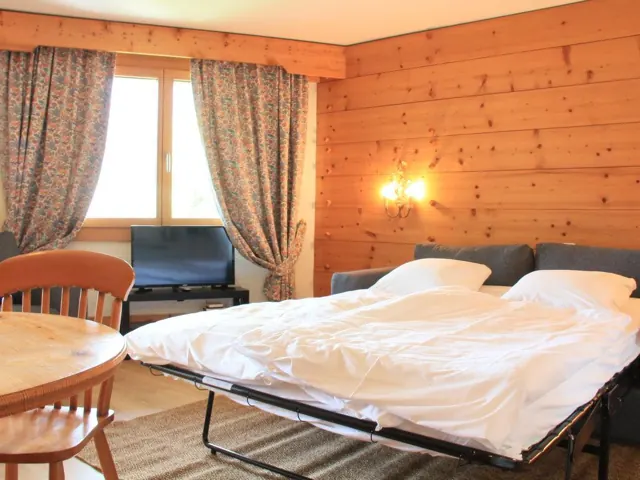
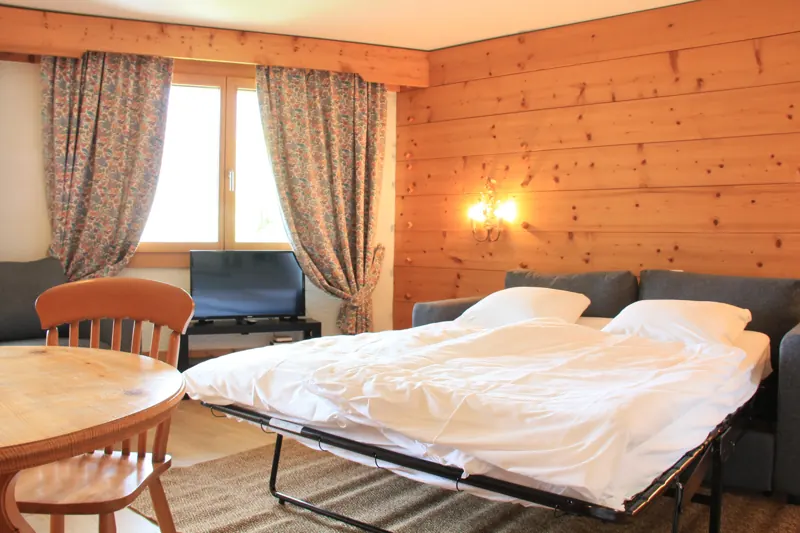
Full-resolution Interhome originals (1600px) for sharper photos

diff --git a/index.html b/index.html
@@ -14,7 +14,7 @@
 <script type="application/ld+json">
 {"@context":"https://schema.org","@type":"VacationRental","name":"Le Bristol A46 · Villars-sur-Ollon",
  "description":"One-bedroom apartment with two balconies, two bathrooms and a heated indoor pool in the building, 500 m from the centre of Villars-sur-Ollon.",
- "image":["img/balcony-fondue-view-1600.webp","img/living-room-1600.webp","img/ih-bedroom-1024.webp","img/ih-pool-2-1024.webp"],
+ "image":["img/balcony-fondue-view-1600.webp","img/living-room-1600.webp","img/ih-bedroom-1600.webp","img/ih-pool-2-1600.webp"],
  "address":{"@type":"PostalAddress","streetAddress":"Avenue Centrale 164","addressLocality":"Villars-sur-Ollon","postalCode":"1884","addressCountry":"CH"},
  "containsPlace":{"@type":"Accommodation","additionalType":"EntirePlace","occupancy":{"@type":"QuantitativeValue","value":4},"numberOfBedrooms":1,"numberOfBathroomsTotal":2,"floorSize":{"@type":"QuantitativeValue","value":55,"unitCode":"MTK"},
    "amenityFeature":[{"@type":"LocationFeatureSpecification","name":"Indoor pool","value":true},{"@type":"LocationFeatureSpecification","name":"Wi-Fi","value":true},{"@type":"LocationFeatureSpecification","name":"Balcony","value":true}]}}
@@ -281,7 +281,7 @@
 
 <header class="hero" id="top">
   <div class="bg s"><img src="img/balcony-fondue-view-1600.webp" srcset="img/balcony-fondue-view-800.webp 800w, img/balcony-fondue-view-1600.webp 1600w" sizes="100vw" alt="Fondue on the balcony with a panoramic view of the Alps above Villars" fetchpriority="high"></div>
-  <div class="bg w"><img src="img/ih-view-winter-1024.webp" alt="Snow-covered balcony looking over Villars and the mountains in winter" loading="lazy"></div>
+  <div class="bg w"><img src="img/ih-view-winter-1600.webp" alt="Snow-covered balcony looking over Villars and the mountains in winter" loading="lazy"></div>
   <div class="wrap">
     <p class="kicker"><span data-show="summer">Villars-sur-Ollon · Summer in the Alps</span><span data-show="winter">Villars-sur-Ollon · Ski bus at the door</span></p>
     <h1>Your balcony <em>above</em> the Alps</h1>
@@ -337,8 +337,8 @@
   </section>
 
   <div class="band" aria-hidden="false">
-    <img id="parallax" data-show="summer" src="img/ih-village-summer-1024.webp" alt="Villars village and the Alps in summer" loading="lazy">
-    <img class="parallax-w" data-show="winter" src="img/ih-view-winter-2-1024.webp" alt="Villars under fresh snow" loading="lazy">
+    <img id="parallax" data-show="summer" src="img/ih-village-summer-1600.webp" alt="Villars village and the Alps in summer" loading="lazy">
+    <img class="parallax-w" data-show="winter" src="img/ih-view-winter-2-1600.webp" alt="Villars under fresh snow" loading="lazy">
     <div class="quote"><blockquote class="reveal">"Spacious apartment, magnificent view over Villars and the mountains."<cite style="display:block;font:500 .8rem/1.4 var(--sans);font-style:normal;letter-spacing:.18em;text-transform:uppercase;margin-top:20px;opacity:.8">Guest review, translated from French</cite></blockquote></div>
   </div>
 
@@ -349,17 +349,17 @@
         <h2>Warm, light, <em>unmistakably alpine</em></h2>
       </div>
       <div class="gallery reveal" id="gallery">
-        <button class="i1" data-full="img/ih-living-ih-1024.webp" aria-label="Open photo: living room"><img src="img/ih-living-ih-1024.webp" alt="Bright pine-panelled living room with sofa, dining table and kitchenette" loading="lazy"></button>
+        <button class="i1" data-full="img/ih-living-ih-1600.webp" aria-label="Open photo: living room"><img src="img/ih-living-ih-1600.webp" alt="Bright pine-panelled living room with sofa, dining table and kitchenette" loading="lazy"></button>
         <button class="i2" data-full="img/living-room-sofas-1600.webp" aria-label="Open photo: two sofas"><img src="img/living-room-sofas-1600.webp" alt="Living room with two sofas facing the window" loading="lazy"></button>
-        <button class="i3" data-full="img/ih-terrace-trees-1024.webp" aria-label="Open photo: balcony"><img src="img/ih-terrace-trees-1024.webp" alt="Balcony looking over larch woods and mountains" loading="lazy"></button>
+        <button class="i3" data-full="img/ih-terrace-trees-1600.webp" aria-label="Open photo: balcony"><img src="img/ih-terrace-trees-1600.webp" alt="Balcony looking over larch woods and mountains" loading="lazy"></button>
         <button class="i4" data-full="img/living-room-evening-1600.webp" aria-label="Open photo: evening light"><img src="img/living-room-evening-1600.webp" alt="Living room in warm evening light" loading="lazy"></button>
         <button class="i5" data-full="img/fondue-closeup-1600.webp" aria-label="Open photo: fondue"><img src="img/fondue-closeup-1600.webp" alt="Fondue on the balcony" loading="lazy"></button>
         <button class="i6" data-full="img/kitchenette-1600.webp" aria-label="Open photo: kitchenette"><img src="img/kitchenette-1600.webp" alt="White kitchenette with two hot plates and fridge" loading="lazy"></button>
-        <button class="i4" data-full="img/ih-bedroom-1024.webp" aria-label="Open photo: bedroom"><img src="img/ih-bedroom-1024.webp" alt="Twin bedroom with pine furniture" loading="lazy"></button>
-        <button class="i5" data-full="img/ih-bathroom-1024.webp" aria-label="Open photo: bathroom"><img src="img/ih-bathroom-1024.webp" alt="Bathroom with bath and marble tiles" loading="lazy"></button>
-        <button class="i6" data-full="img/ih-pool-2-1024.webp" aria-label="Open photo: indoor pool"><img src="img/ih-pool-2-1024.webp" alt="Heated indoor pool in the building" loading="lazy"></button>
-        <button class="i7" data-full="img/ih-terrace-summer-1024.webp" aria-label="Open photo: balcony table"><img src="img/ih-terrace-summer-1024.webp" alt="Balcony table and chairs with mountain view" loading="lazy"></button>
-        <button class="i7" data-full="img/ih-building-snow-1024.webp" aria-label="Open photo: building in winter"><img src="img/ih-building-snow-1024.webp" alt="Le Bristol with wooden balconies in the snow" loading="lazy"></button>
+        <button class="i4" data-full="img/ih-bedroom-1600.webp" aria-label="Open photo: bedroom"><img src="img/ih-bedroom-1600.webp" alt="Twin bedroom with pine furniture" loading="lazy"></button>
+        <button class="i5" data-full="img/ih-bathroom-1600.webp" aria-label="Open photo: bathroom"><img src="img/ih-bathroom-1600.webp" alt="Bathroom with bath and marble tiles" loading="lazy"></button>
+        <button class="i6" data-full="img/ih-pool-2-1600.webp" aria-label="Open photo: indoor pool"><img src="img/ih-pool-2-1600.webp" alt="Heated indoor pool in the building" loading="lazy"></button>
+        <button class="i7" data-full="img/ih-terrace-summer-1600.webp" aria-label="Open photo: balcony table"><img src="img/ih-terrace-summer-1600.webp" alt="Balcony table and chairs with mountain view" loading="lazy"></button>
+        <button class="i7" data-full="img/ih-building-snow-1600.webp" aria-label="Open photo: building in winter"><img src="img/ih-building-snow-1600.webp" alt="Le Bristol with wooden balconies in the snow" loading="lazy"></button>
       </div>
     </div>
   </section>
@@ -376,11 +376,11 @@
       </div>
 
       <div class="acts" data-show="winter">
-        <article class="act reveal"><img src="img/ih-bretaye-pistes-640.webp" srcset="img/ih-bretaye-pistes-640.webp 640w, img/ih-bretaye-pistes-1024.webp 1024w" sizes="(max-width:560px) 92vw, (max-width:900px) 46vw, 380px" alt="Sunny pistes in the Villars–Gryon ski area" loading="lazy"><div><span class="tag">Ski</span><h3>Over 100 km of pistes</h3><p>Villars–Gryon–Les Diablerets links wide blue and red runs with views to Mont Blanc. The free ski bus stops 20 m from the building.</p></div></article>
+        <article class="act reveal"><img src="img/ih-bretaye-pistes-640.webp" srcset="img/ih-bretaye-pistes-640.webp 640w, img/ih-bretaye-pistes-1600.webp 1600w" sizes="(max-width:560px) 92vw, (max-width:900px) 46vw, 380px" alt="Sunny pistes in the Villars–Gryon ski area" loading="lazy"><div><span class="tag">Ski</span><h3>Over 100 km of pistes</h3><p>Villars–Gryon–Les Diablerets links wide blue and red runs with views to Mont Blanc. The free ski bus stops 20 m from the building.</p></div></article>
         <article class="act reveal"><img src="img/cc-bvb-winter-640.webp" srcset="img/cc-bvb-winter-640.webp 640w, img/cc-bvb-winter-1200.webp 1200w" sizes="(max-width:560px) 92vw, (max-width:900px) 46vw, 380px" alt="The red mountain train at Col de Bretaye in ski season" loading="lazy"><div><span class="tag">Getting up</span><h3>The train to Bretaye</h3><p>The little rack railway climbs from Villars station, 500 m from the flat, straight up to Col de Bretaye at the heart of the ski area. Free with a valid ski pass.</p></div></article>
-        <article class="act reveal"><img src="img/ih-roc-dorsay-640.webp" srcset="img/ih-roc-dorsay-640.webp 640w, img/ih-roc-dorsay-1024.webp 1024w" sizes="(max-width:560px) 92vw, (max-width:900px) 46vw, 380px" alt="Roc d'Orsay gondola station in Villars" loading="lazy"><div><span class="tag">Getting up</span><h3>Roc d'Orsay gondola</h3><p>Or take the gondola from the village up to Roc d'Orsay. Lockers, ski hire and ski schools for children from age 3 are all close by.</p></div></article>
-        <article class="act reveal"><img src="img/ih-snow-trail-640.webp" srcset="img/ih-snow-trail-640.webp 640w, img/ih-snow-trail-1024.webp 1024w" sizes="(max-width:560px) 92vw, (max-width:900px) 46vw, 380px" alt="Footprints across fresh snow between fir trees" loading="lazy"><div><span class="tag">Not skiing?</span><h3>Winter walks &amp; snowshoes</h3><p>Groomed winter footpaths and snowshoe trails start from the village and from Bretaye. Sledging and an ice rink too.</p></div></article>
-        <article class="act reveal"><img src="img/ih-pool-2-640.webp" srcset="img/ih-pool-2-640.webp 640w, img/ih-pool-2-1024.webp 1024w" sizes="(max-width:560px) 92vw, (max-width:900px) 46vw, 380px" alt="Heated indoor pool in Le Bristol" loading="lazy"><div><span class="tag">Après-ski</span><h3>Pool downstairs</h3><p>Come back, drop the skis in the ski room and swim in the heated indoor pool in the building. Then fondue on the balcony.</p></div></article>
+        <article class="act reveal"><img src="img/ih-roc-dorsay-640.webp" srcset="img/ih-roc-dorsay-640.webp 640w, img/ih-roc-dorsay-1600.webp 1600w" sizes="(max-width:560px) 92vw, (max-width:900px) 46vw, 380px" alt="Roc d'Orsay gondola station in Villars" loading="lazy"><div><span class="tag">Getting up</span><h3>Roc d'Orsay gondola</h3><p>Or take the gondola from the village up to Roc d'Orsay. Lockers, ski hire and ski schools for children from age 3 are all close by.</p></div></article>
+        <article class="act reveal"><img src="img/ih-snow-trail-640.webp" srcset="img/ih-snow-trail-640.webp 640w, img/ih-snow-trail-1600.webp 1600w" sizes="(max-width:560px) 92vw, (max-width:900px) 46vw, 380px" alt="Footprints across fresh snow between fir trees" loading="lazy"><div><span class="tag">Not skiing?</span><h3>Winter walks &amp; snowshoes</h3><p>Groomed winter footpaths and snowshoe trails start from the village and from Bretaye. Sledging and an ice rink too.</p></div></article>
+        <article class="act reveal"><img src="img/ih-pool-2-640.webp" srcset="img/ih-pool-2-640.webp 640w, img/ih-pool-2-1600.webp 1600w" sizes="(max-width:560px) 92vw, (max-width:900px) 46vw, 380px" alt="Heated indoor pool in Le Bristol" loading="lazy"><div><span class="tag">Après-ski</span><h3>Pool downstairs</h3><p>Come back, drop the skis in the ski room and swim in the heated indoor pool in the building. Then fondue on the balcony.</p></div></article>
         <article class="act reveal"><img src="img/cc-glacier-summer-640.webp" srcset="img/cc-glacier-summer-640.webp 640w, img/cc-glacier-summer-1200.webp 1200w" sizes="(max-width:560px) 92vw, (max-width:900px) 46vw, 380px" alt="Glacier 3000 cable car and the snowy peaks of the Diablerets" loading="lazy"><div><span class="tag">Day trip</span><h3>Glacier 3000</h3><p>About 40 minutes' drive via Les Diablerets: a cable car to the glacier, the Peak Walk suspension bridge and skiing at 3,000 m.</p></div></article>
       </div>
 
@@ -388,7 +388,7 @@
         <article class="act reveal"><img src="img/cc-chavonnes-640.webp" srcset="img/cc-chavonnes-640.webp 640w, img/cc-chavonnes-1200.webp 1200w" sizes="(max-width:560px) 92vw, (max-width:900px) 46vw, 380px" alt="Lac des Chavonnes above Bretaye in summer" loading="lazy"><div><span class="tag">Walk</span><h3>The Bretaye lakes</h3><p>Ride the little train from Villars station up to Col de Bretaye, then walk round Lac de Bretaye and Lac Noir, or 30–40 minutes on to Lac des Chavonnes and its lakeside terrace restaurant.</p></div></article>
         <article class="act reveal"><img src="img/cc-bikers-640.webp" srcset="img/cc-bikers-640.webp 640w, img/cc-bikers-1200.webp 1200w" sizes="(max-width:560px) 92vw, (max-width:900px) 46vw, 380px" alt="Trail through alpine pasture near Col de Bretaye" loading="lazy"><div><span class="tag">Walk</span><h3>Trails for every level</h3><p>Family strolls in the larch woods, the Edelweiss Trail, or up Le Chamossaire for the panorama. Bikes go on the Bretaye train, and can be hired in the village.</p></div></article>
         <article class="act reveal"><img src="img/cc-chamossaire-640.webp" srcset="img/cc-chamossaire-640.webp 640w, img/cc-chamossaire-1200.webp 1200w" sizes="(max-width:560px) 92vw, (max-width:900px) 46vw, 380px" alt="Alpine pastures below Le Chamossaire" loading="lazy"><div><span class="tag">Play</span><h3>Golf at altitude</h3><p>Villars golf course, an 18-hole mountain course, is 7 km away. The village sports centre has tennis, a pool and an ice rink.</p></div></article>
-        <article class="act reveal"><img src="img/ih-pool-2-640.webp" srcset="img/ih-pool-2-640.webp 640w, img/ih-pool-2-1024.webp 1024w" sizes="(max-width:560px) 92vw, (max-width:900px) 46vw, 380px" alt="Heated indoor pool in Le Bristol" loading="lazy"><div><span class="tag">Relax</span><h3>Pools &amp; thermal baths</h3><p>The heated pool is downstairs. For a treat, the Lavey thermal baths in the Rhône valley are about 25 minutes' drive, and the village sports centre has a spa.</p></div></article>
+        <article class="act reveal"><img src="img/ih-pool-2-640.webp" srcset="img/ih-pool-2-640.webp 640w, img/ih-pool-2-1600.webp 1600w" sizes="(max-width:560px) 92vw, (max-width:900px) 46vw, 380px" alt="Heated indoor pool in Le Bristol" loading="lazy"><div><span class="tag">Relax</span><h3>Pools &amp; thermal baths</h3><p>The heated pool is downstairs. For a treat, the Lavey thermal baths in the Rhône valley are about 25 minutes' drive, and the village sports centre has a spa.</p></div></article>
         <article class="act reveal"><img src="img/cc-salt-mines-640.webp" srcset="img/cc-salt-mines-640.webp 640w, img/cc-salt-mines-1200.webp 1200w" sizes="(max-width:560px) 92vw, (max-width:900px) 46vw, 380px" alt="Lit tunnel inside the Bex salt mines" loading="lazy"><div><span class="tag">Day trip</span><h3>Bex salt mines</h3><p>Ride a small train deep into a working salt mine, a hit with children. About 20 minutes' drive down to Bex; tours take about 2 hours, so book online.</p></div></article>
         <article class="act reveal"><img src="img/cc-chillon-640.webp" srcset="img/cc-chillon-640.webp 640w, img/cc-chillon-1200.webp 1200w" sizes="(max-width:560px) 92vw, (max-width:900px) 46vw, 380px" alt="Château de Chillon on Lake Geneva with the Dents du Midi at dusk" loading="lazy"><div><span class="tag">Day trip</span><h3>Lake Geneva &amp; Chillon</h3><p>Montreux and Château de Chillon on the lake are about 40 minutes away. Swim, take a paddle steamer, and be back for sunset on the balcony.</p></div></article>
       </div>

diff --git a/aiglon-college-accommodation.html b/aiglon-college-accommodation.html
@@ -7,7 +7,7 @@
 <meta name="description" content="Visiting Aiglon College? A self-catering apartment for up to 4 in Villars, on the same road as the school, with two bathrooms, two balconies and an indoor pool.">
 <meta property="og:title" content="Aiglon College accommodation for parents · Le Bristol A46, Villars">
 <meta property="og:description" content="Visiting Aiglon College? A self-catering apartment for up to 4 in Villars, on the same road as the school, with two bathrooms, two balconies and an indoor pool.">
-<meta property="og:image" content="img/ih-village-summer-1024.webp">
+<meta property="og:image" content="img/ih-village-summer-1600.webp">
 <meta property="og:type" content="article">
 <meta name="theme-color" content="#16241c">
 <link rel="icon" href="favicon.svg" type="image/svg+xml">
@@ -25,7 +25,7 @@
 </div></div>
 
 <header class="hero">
-  <img src="img/ih-village-summer-1024.webp" alt="Villars and Chesières with the Alps behind, in summer">
+  <img src="img/ih-village-summer-1600.webp" alt="Villars and Chesières with the Alps behind, in summer">
   <div class="wrap">
     <p class="kicker">Aiglon College · Villars-sur-Ollon</p>
     <h1>Aiglon College <em>accommodation</em> for visiting families</h1>
@@ -38,7 +38,7 @@
   <p>Hotels in Villars fill quickly on school weekends, and one room gets small fast with a teenager and their friends. Le Bristol A46 is a one-bedroom apartment for up to 4, with two bathrooms, two balconies, a kitchenette and a heated indoor pool in the building. It's a quiet base where the family can spread out.</p>
 
   <section class="stay">
-    <img src="img/ih-living-ih-1024.webp" alt="Bright pine-panelled living room with sofa, dining table and kitchenette">
+    <img src="img/ih-living-ih-1600.webp" alt="Bright pine-panelled living room with sofa, dining table and kitchenette">
     <div>
       <h2>At a glance</h2>
       <ul class="facts">

diff --git a/beau-soleil-accommodation.html b/beau-soleil-accommodation.html
@@ -7,7 +7,7 @@
 <meta name="description" content="Visiting Collège Alpin International Beau Soleil? A self-catering apartment for up to 4 in Villars, a short walk from the school, with an indoor pool.">
 <meta property="og:title" content="Beau Soleil accommodation for parents · Le Bristol A46, Villars">
 <meta property="og:description" content="Visiting Collège Alpin International Beau Soleil? A self-catering apartment for up to 4 in Villars, a short walk from the school, with an indoor pool.">
-<meta property="og:image" content="img/ih-view-winter-2-1024.webp">
+<meta property="og:image" content="img/ih-view-winter-2-1600.webp">
 <meta property="og:type" content="article">
 <meta name="theme-color" content="#16241c">
 <link rel="icon" href="favicon.svg" type="image/svg+xml">
@@ -25,7 +25,7 @@
 </div></div>
 
 <header class="hero">
-  <img src="img/ih-view-winter-2-1024.webp" alt="Villars-sur-Ollon under fresh snow">
+  <img src="img/ih-view-winter-2-1600.webp" alt="Villars-sur-Ollon under fresh snow">
   <div class="wrap">
     <p class="kicker">Beau Soleil · Villars-sur-Ollon</p>
     <h1>Beau Soleil <em>accommodation</em> for visiting families</h1>
@@ -38,7 +38,7 @@
   <p>Hotels in Villars fill quickly on school weekends, and one room gets small fast with a teenager and their friends. Le Bristol A46 is a one-bedroom apartment for up to 4, with two bathrooms, two balconies, a kitchenette and a heated indoor pool in the building. It's a quiet base where the family can spread out.</p>
 
   <section class="stay">
-    <img src="img/ih-living-ih-1024.webp" alt="Bright pine-panelled living room with sofa, dining table and kitchenette">
+    <img src="img/ih-living-ih-1600.webp" alt="Bright pine-panelled living room with sofa, dining table and kitchenette">
     <div>
       <h2>At a glance</h2>
       <ul class="facts">
